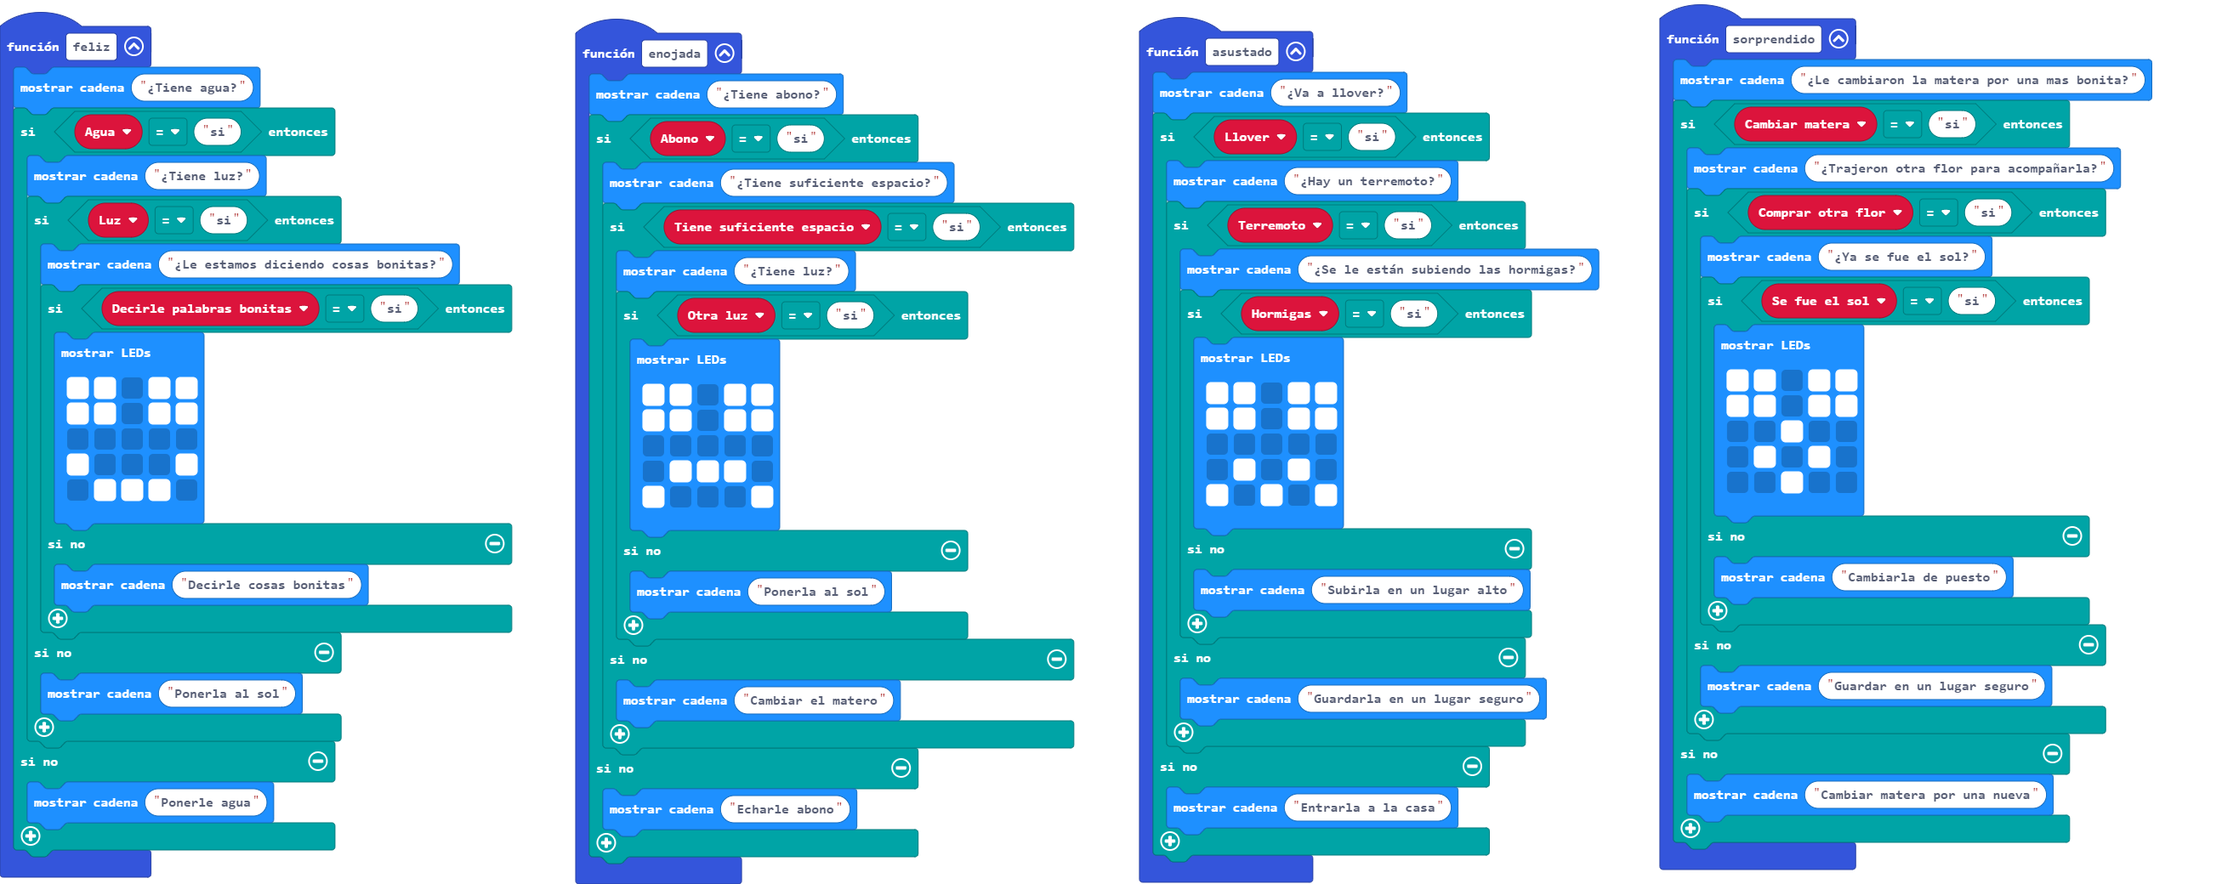
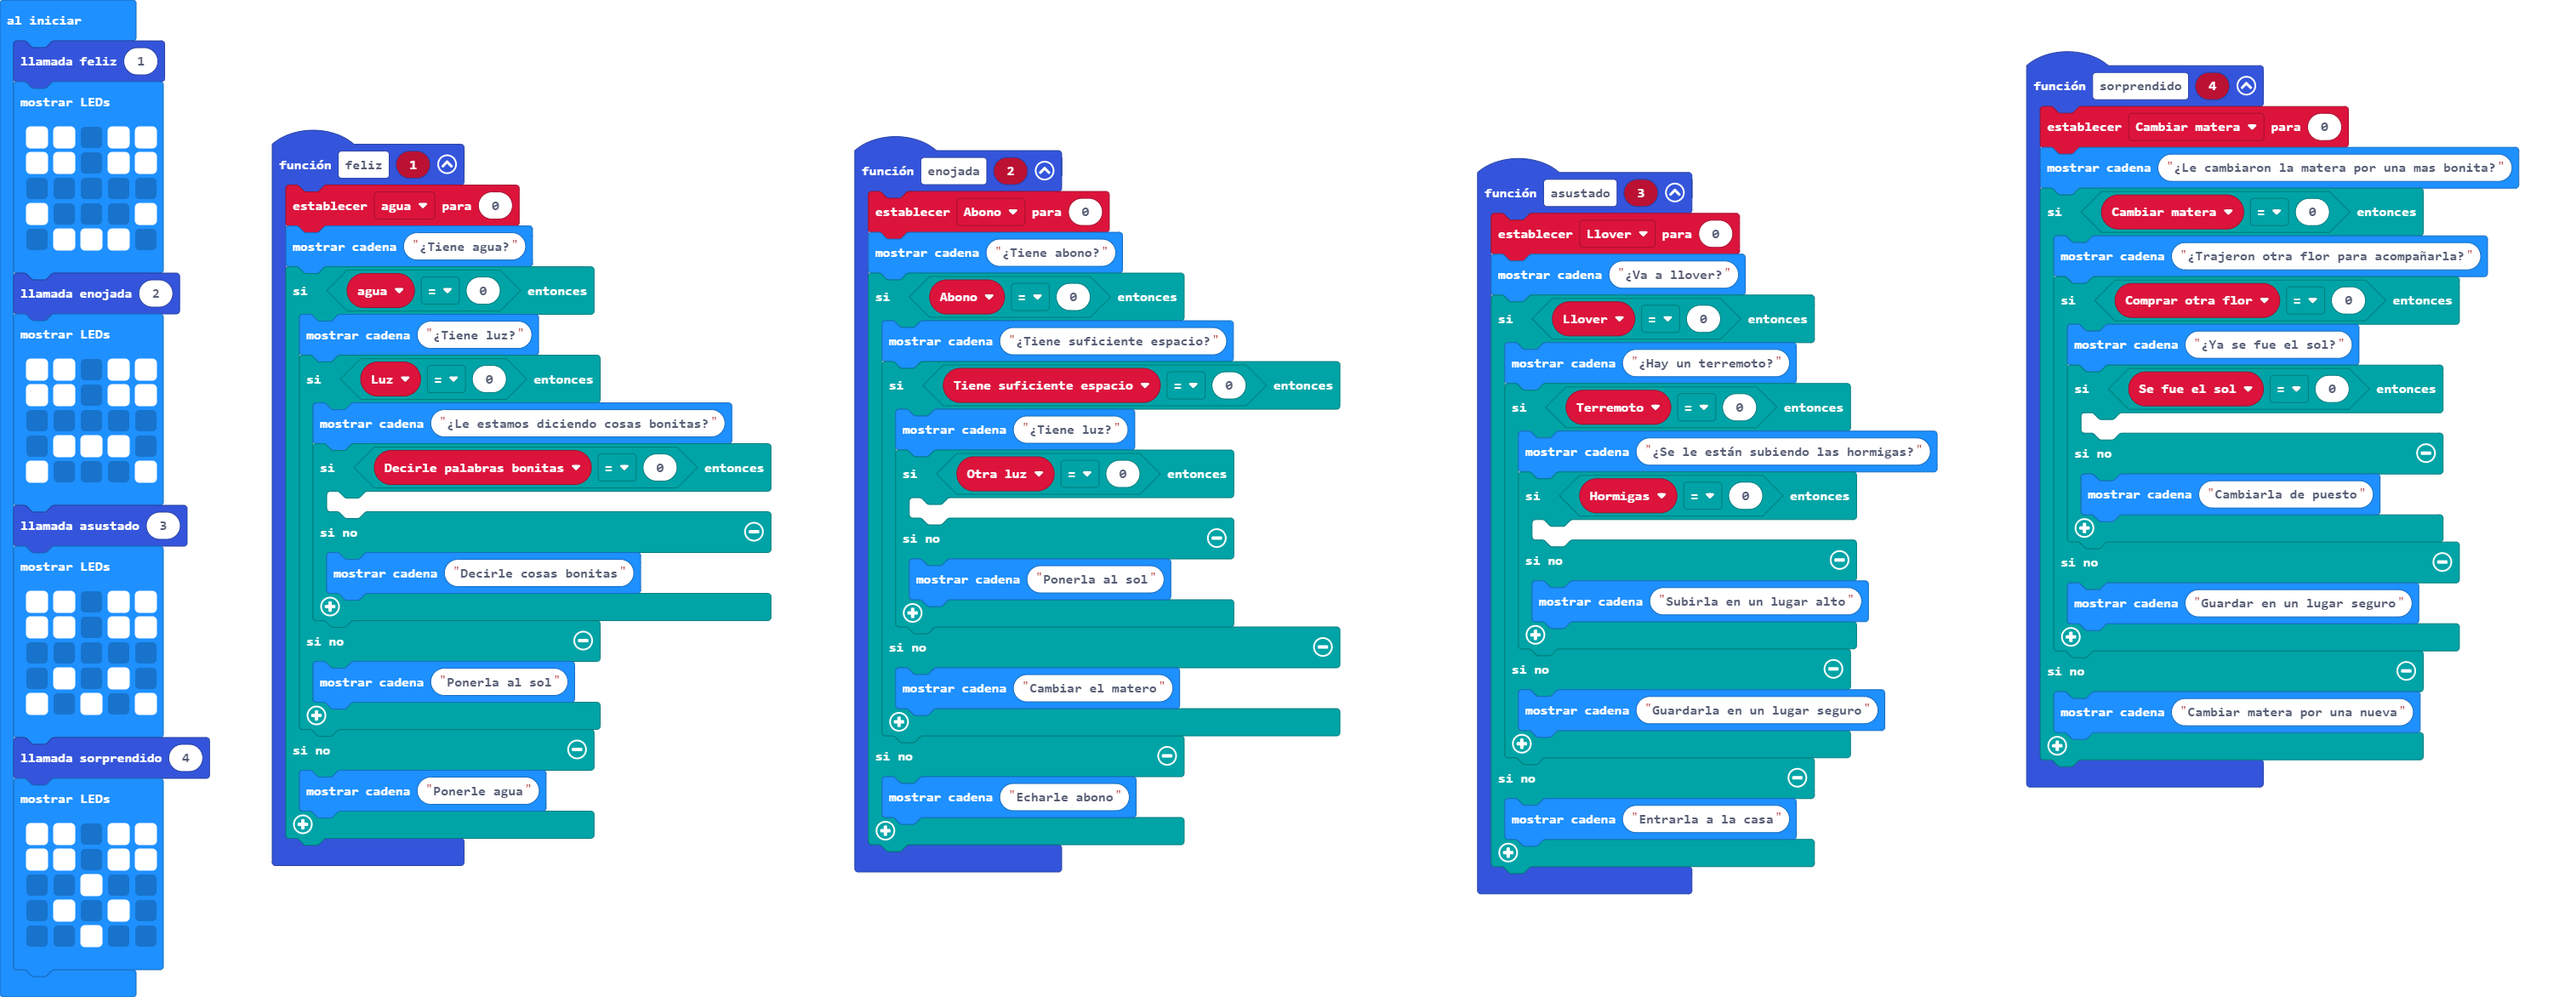
Actualizar main.blocks, main.ts

diff --git a/main.ts b/main.ts
@@ -1,20 +1,14 @@
-function feliz () {
-    let Agua = ""
+function feliz (_1: number) {
+    agua = 0
     basic.showString("¿Tiene agua?")
-    if (Agua == "si") {
-        let Luz = ""
+    if (agua == 0) {
+        let Luz = 0
         basic.showString("¿Tiene luz?")
-        if (Luz == "si") {
-            let Decirle_palabras_bonitas = ""
+        if (Luz == 0) {
+            let Decirle_palabras_bonitas = 0
             basic.showString("¿Le estamos diciendo cosas bonitas?")
-            if (Decirle_palabras_bonitas == "si") {
-                basic.showLeds(`
-                    # # . # #
-                    # # . # #
-                    . . . . .
-                    # . . . #
-                    . # # # .
-                    `)
+            if (Decirle_palabras_bonitas == 0) {
+            	
             } else {
                 basic.showString("Decirle cosas bonitas")
             }
@@ -25,23 +19,17 @@ function feliz () {
         basic.showString("Ponerle agua")
     }
 }
-function enojada () {
-    let Abono = ""
+function enojada (_2: number) {
+    Abono = 0
     basic.showString("¿Tiene abono?")
-    if (Abono == "si") {
-        let Tiene_suficiente_espacio = ""
+    if (Abono == 0) {
+        let Tiene_suficiente_espacio = 0
         basic.showString("¿Tiene suficiente espacio?")
-        if (Tiene_suficiente_espacio == "si") {
-            let Otra_luz = ""
+        if (Tiene_suficiente_espacio == 0) {
+            let Otra_luz = 0
             basic.showString("¿Tiene luz?")
-            if (Otra_luz == "si") {
-                basic.showLeds(`
-                    # # . # #
-                    # # . # #
-                    . . . . .
-                    . # # # .
-                    # . . . #
-                    `)
+            if (Otra_luz == 0) {
+            	
             } else {
                 basic.showString("Ponerla al sol")
             }
@@ -52,23 +40,17 @@ function enojada () {
         basic.showString("Echarle abono")
     }
 }
-function sorprendido () {
-    let Cambiar_matera = ""
+function sorprendido (_4: number) {
+    Cambiar_matera = 0
     basic.showString("¿Le cambiaron la matera por una mas bonita?")
-    if (Cambiar_matera == "si") {
-        let Comprar_otra_flor = ""
+    if (Cambiar_matera == 0) {
+        let Comprar_otra_flor = 0
         basic.showString("¿Trajeron otra flor para acompañarla?")
-        if (Comprar_otra_flor == "si") {
-            let Se_fue_el_sol = ""
+        if (Comprar_otra_flor == 0) {
+            let Se_fue_el_sol = 0
             basic.showString("¿Ya se fue el sol?")
-            if (Se_fue_el_sol == "si") {
-                basic.showLeds(`
-                    # # . # #
-                    # # . # #
-                    . . # . .
-                    . # . # .
-                    . . # . .
-                    `)
+            if (Se_fue_el_sol == 0) {
+            	
             } else {
                 basic.showString("Cambiarla de puesto")
             }
@@ -79,23 +61,17 @@ function sorprendido () {
         basic.showString("Cambiar matera por una nueva")
     }
 }
-function asustado () {
-    let Llover = ""
+function asustado (_3: number) {
+    Llover = 0
     basic.showString("¿Va a llover?")
-    if (Llover == "si") {
-        let Terremoto = ""
+    if (Llover == 0) {
+        let Terremoto = 0
         basic.showString("¿Hay un terremoto?")
-        if (Terremoto == "si") {
-            let Hormigas = ""
+        if (Terremoto == 0) {
+            let Hormigas = 0
             basic.showString("¿Se le están subiendo las hormigas?")
-            if (Hormigas == "si") {
-                basic.showLeds(`
-                    # # . # #
-                    # # . # #
-                    . . . . .
-                    . # . # .
-                    # . # . #
-                    `)
+            if (Hormigas == 0) {
+            	
             } else {
                 basic.showString("Subirla en un lugar alto")
             }
@@ -106,3 +82,39 @@ function asustado () {
         basic.showString("Entrarla a la casa")
     }
 }
+let Llover = 0
+let Cambiar_matera = 0
+let Abono = 0
+let agua = 0
+feliz(1)
+basic.showLeds(`
+    # # . # #
+    # # . # #
+    . . . . .
+    # . . . #
+    . # # # .
+    `)
+enojada(2)
+basic.showLeds(`
+    # # . # #
+    # # . # #
+    . . . . .
+    . # # # .
+    # . . . #
+    `)
+asustado(3)
+basic.showLeds(`
+    # # . # #
+    # # . # #
+    . . . . .
+    . # . # .
+    # . # . #
+    `)
+sorprendido(4)
+basic.showLeds(`
+    # # . # #
+    # # . # #
+    . . # . .
+    . # . # .
+    . . # . .
+    `)
